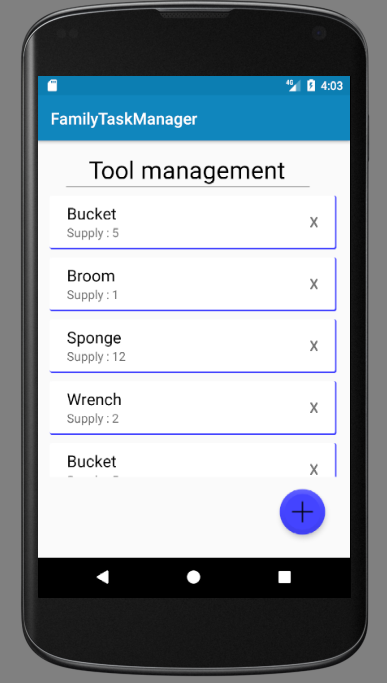
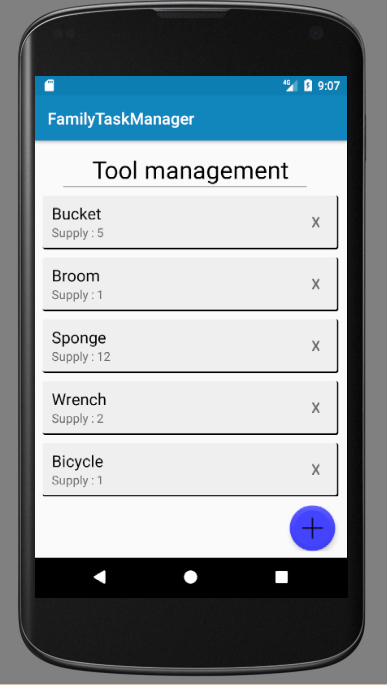
Final commit for the 3rd deliverable

Changed region(s): [[0.031, 0.0, 0.9612, 1.0], [0.062, 0.9224, 0.093, 0.9531]]

diff --git a/FamilyTaskManager/app/src/main/java/familytaskmanager/microso/com/familytaskmanager/UserChangeAdapter.java b/FamilyTaskManager/app/src/main/java/familytaskmanager/microso/com/familytaskmanager/UserChangeAdapter.java
@@ -38,10 +38,11 @@ public class UserChangeAdapter extends ArrayAdapter<User> {
         View rowView = inflater.inflate(R.layout.user_change_list_item, parent, false);
 
         TextView nameView = (TextView) rowView.findViewById(R.id.userchangelistname);
-        TextView ptsView = (TextView) rowView.findViewById(R.id.userchangelistpts);
+        TextView ptsView = (TextView) rowView.findViewById(R.id.userchangelistpoints);
+        ImageView pic = (ImageView) rowView.findViewById(R.id.userchangelistpic);
         nameView.setText(selected_user.getFname());
-        ptsView.setText("Points : " + Integer.toString(selected_user.getAccumulatedPts()));
-        //picView.setImageResource(selected_user.getProfilePicId());
+        ptsView.setText(Integer.toString(selected_user.getAccumulatedPts()));
+        //pic.setImageResource(selected_user.getProfilePicId());
         return rowView;
     }
 

diff --git a/FamilyTaskManager/app/src/main/java/familytaskmanager/microso/com/familytaskmanager/ToolActivity.java b/FamilyTaskManager/app/src/main/java/familytaskmanager/microso/com/familytaskmanager/ToolActivity.java
@@ -32,14 +32,9 @@ public class ToolActivity extends AppCompatActivity {
         tools.add(new Tool(2, "Broom", 1));
         tools.add(new Tool(3, "Sponge", 12));
         tools.add(new Tool(4, "Wrench", 2));
-        tools.add(new Tool(5, "Bucket", 5));
-        tools.add(new Tool(6, "Broom", 1));
-        tools.add(new Tool(7, "Sponge", 12));
-        tools.add(new Tool(8, "Wrench", 2));
-        tools.add(new Tool(9, "Bucket", 5));
-        tools.add(new Tool(10, "Broom", 1));
-        tools.add(new Tool(11, "Sponge", 12));
-        tools.add(new Tool(12, "Wrench", 2));
+        tools.add(new Tool(5, "Bicycle", 1));
+        tools.add(new Tool(6, "Kleenex", 1));
+        tools.add(new Tool(7, "Mouse", 1));
 
         ToolListAdapter adapter = new ToolListAdapter(this, tools);
         listView.setAdapter(adapter);

diff --git a/FamilyTaskManager/app/src/main/java/familytaskmanager/microso/com/familytaskmanager/ToolListAdapter.java b/FamilyTaskManager/app/src/main/java/familytaskmanager/microso/com/familytaskmanager/ToolListAdapter.java
@@ -46,8 +46,7 @@ public class ToolListAdapter extends ArrayAdapter<Tool> {
         supplyView.setText(Integer.toString(selected_tool.getSupply()));
         btnDelete.setOnClickListener(new View.OnClickListener() {
             public void onClick(View v) {
-                Tool s_tool = tools.get((v.getId() - 1)); // Va chercher le tool correspondant dans la liste de tools. (à améliorer)
-
+                Tool s_tool = tools.get((v.getId() - 1)); // Va chercher le tool correspondant dans la liste de tools. (à améliorer?)
                 areYouSure(s_tool); // Selected tool is not the one we're looking for.
             }
         });

diff --git a/FamilyTaskManager/app/src/main/java/familytaskmanager/microso/com/familytaskmanager/User.java b/FamilyTaskManager/app/src/main/java/familytaskmanager/microso/com/familytaskmanager/User.java
@@ -307,12 +307,13 @@ public class User implements Serializable {
 
 
     public String toString() {
-        return super.toString() + "[" +
+        /*return super.toString() + "[" +
                 "id" + ":" + getId() + "," +
                 "fname" + ":" + getFname() + "," +
                 "lname" + ":" + getLname() + "," +
                 "isParent" + ":" + getIsParent() + "," +
                 "profilePicId" + ":" + getProfilePicId() + "," +
-                "accumulatedPts" + ":" + getAccumulatedPts() + "]";
+                "accumulatedPts" + ":" + getAccumulatedPts() + "]";*/
+        return (lname + " " + fname);
     }
 }
